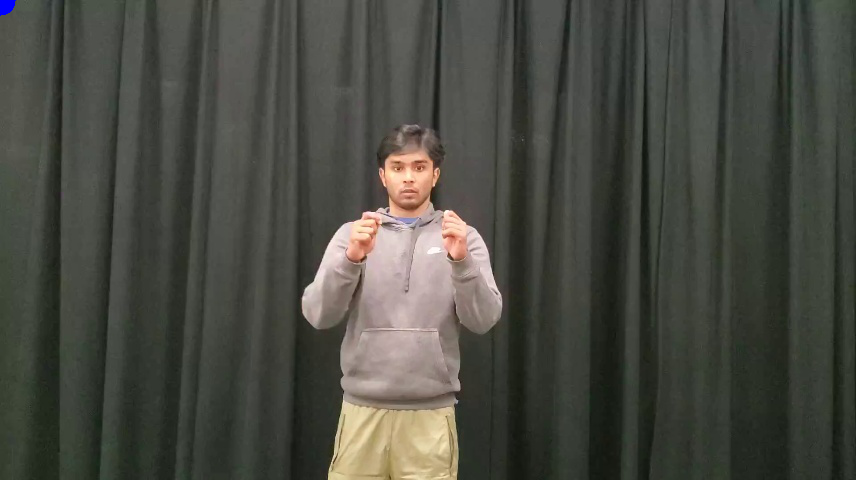
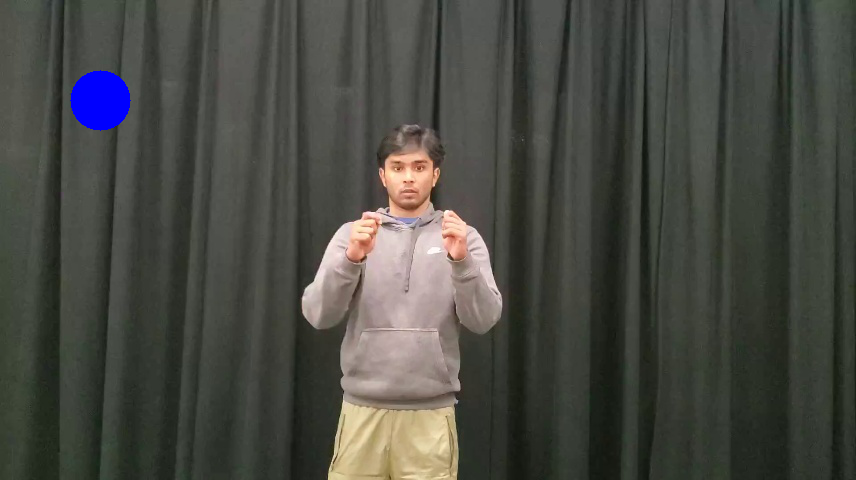
added Anish's data for detected rebounds

Changed region(s): [[0.0607, 0.125, 0.1519, 0.2812], [0.0, 0.0, 0.0304, 0.0312]]

diff --git a/rebound_plot.py b/rebound_plot.py
@@ -42,6 +42,17 @@ if __name__ == "__main__":
         shutil.rmtree(rebound_dir_path)
     os.makedirs(rebound_dir_path, exist_ok=True)
 
-    rebound_locs = [{"frame": "0", "loc": [0, 0]}]
+    rebound_locs = [
+        {"frame": "15", "loc": [301.0, 489.0]},
+        {"frame": "52", "loc": [159.28571428571428, 430.0]},
+        {"frame": "76", "loc": [225.0, 455.0]},
+        {"frame": "89", "loc": [358.0, 291.0]},
+        {"frame": "106", "loc": [449.7368421052632, 433.3157894736842]},
+        {"frame": "119", "loc": [284.0, 338.0]},
+        {"frame": "140", "loc": [135.0, 506.0]},
+        {"frame": "169", "loc": [209.0, 427.0]},
+        {"frame": "189", "loc": [239.53846153846155, 348.53846153846155]},
+        {"frame": "199", "loc": [431.54545454545456, 183.1818181818182]},
+    ]
     rebound_plot(args, rebound_locs)
 
